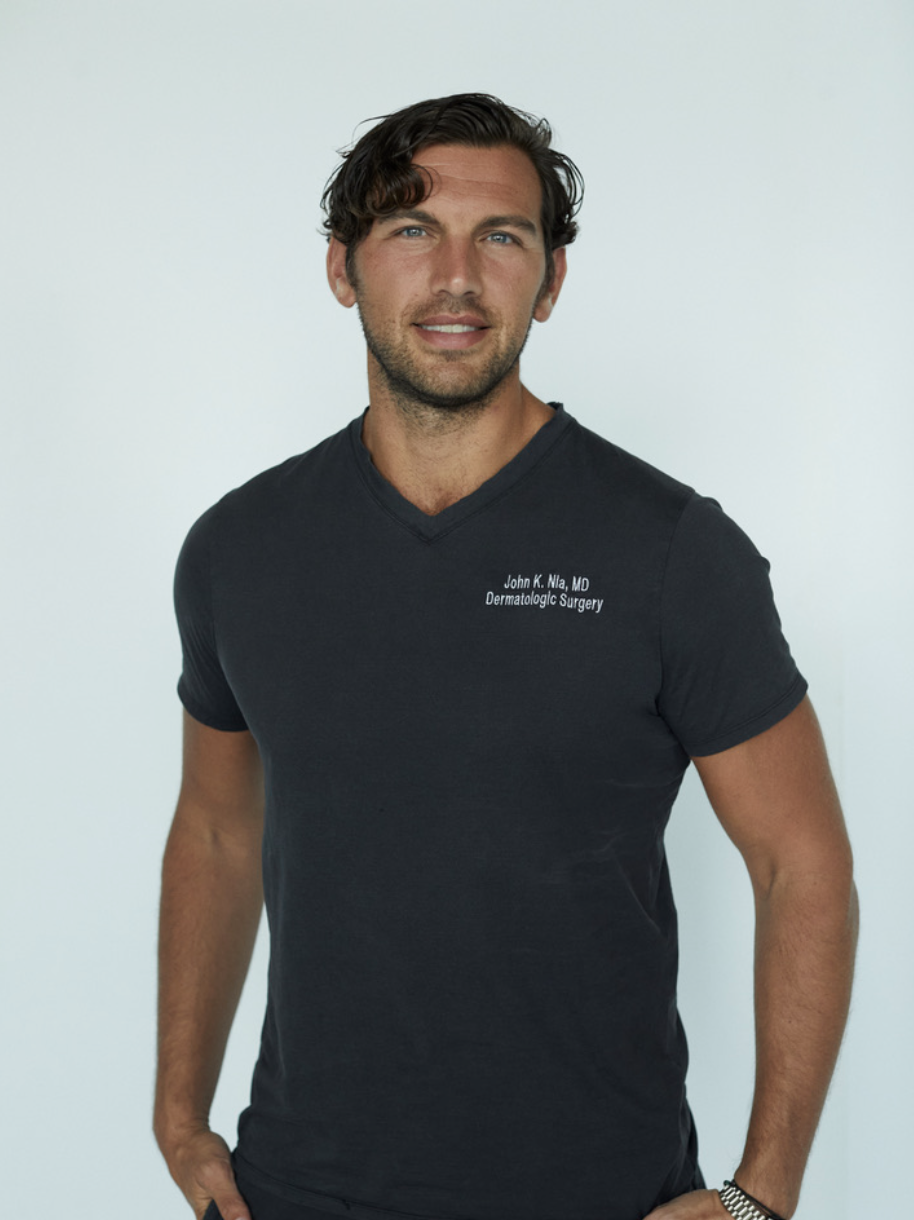
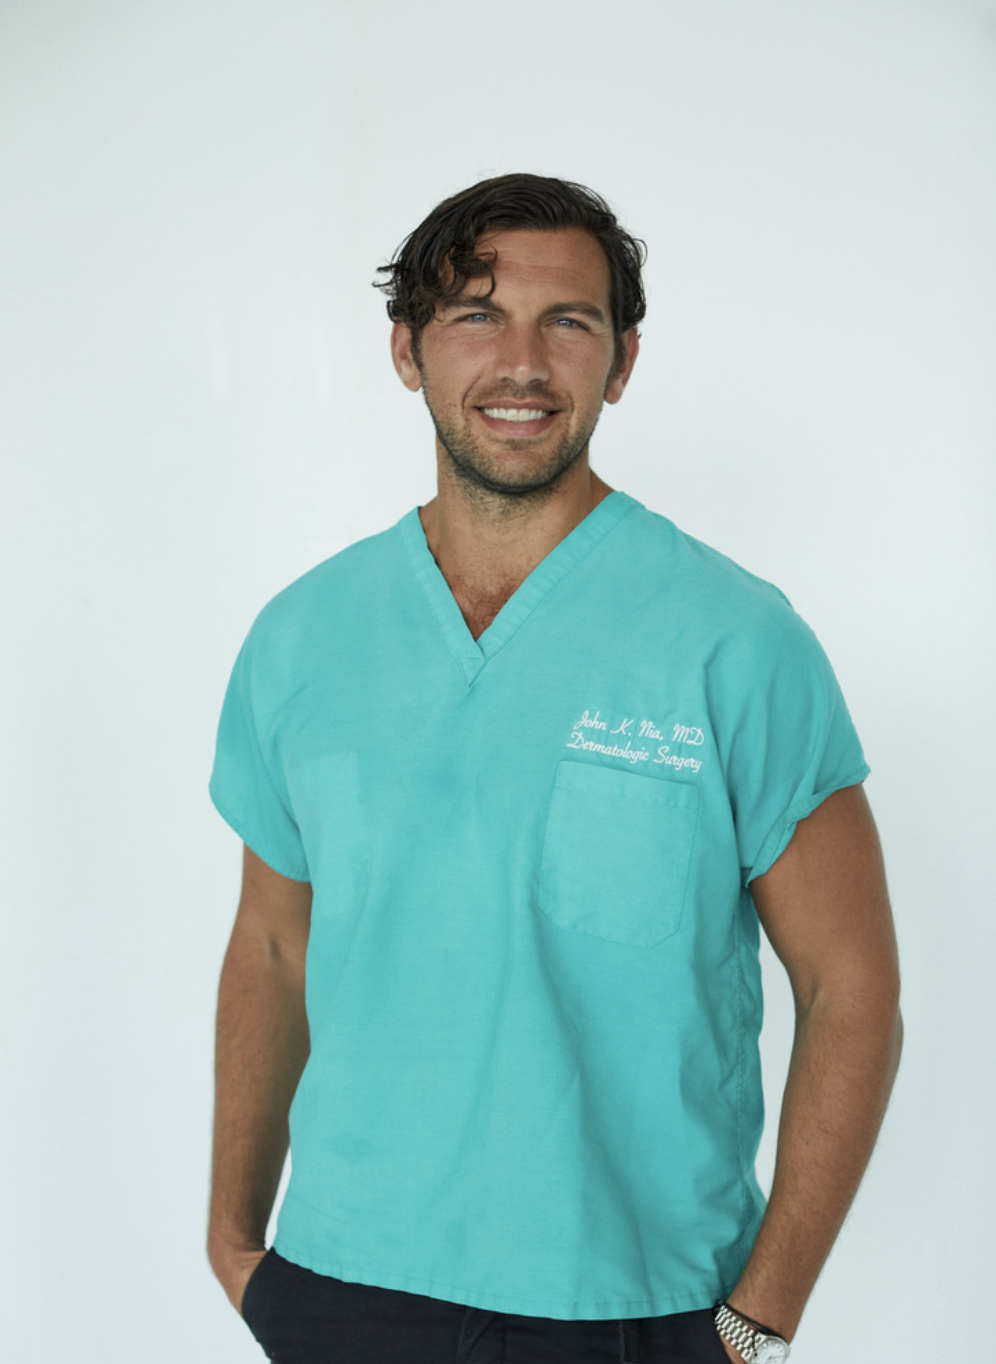
fix: swap og-image to Dr. Nia portrait

diff --git a/app/layout.tsx b/app/layout.tsx
@@ -9,14 +9,14 @@ export const metadata: Metadata = {
     description: 'Cosmetic surgery. Artistry. Precision. Confidence.',
     url: 'https://jkncosmeticsurgery.com',
     siteName: 'JKN Cosmetic Surgery',
-    images: [{ url: 'https://jkncosmeticsurgery.com/opengraph-image', width: 1200, height: 630 }],
+    images: [{ url: 'https://jkncosmeticsurgery.com/og-image.png', width: 1200, height: 630 }],
     type: 'website',
   },
   twitter: {
     card: 'summary_large_image',
     title: 'JKN Cosmetic Surgery',
     description: 'Cosmetic surgery. Artistry. Precision. Confidence.',
-    images: ['https://jkncosmeticsurgery.com/opengraph-image'],
+    images: ['https://jkncosmeticsurgery.com/og-image.png'],
   },
 }
 
